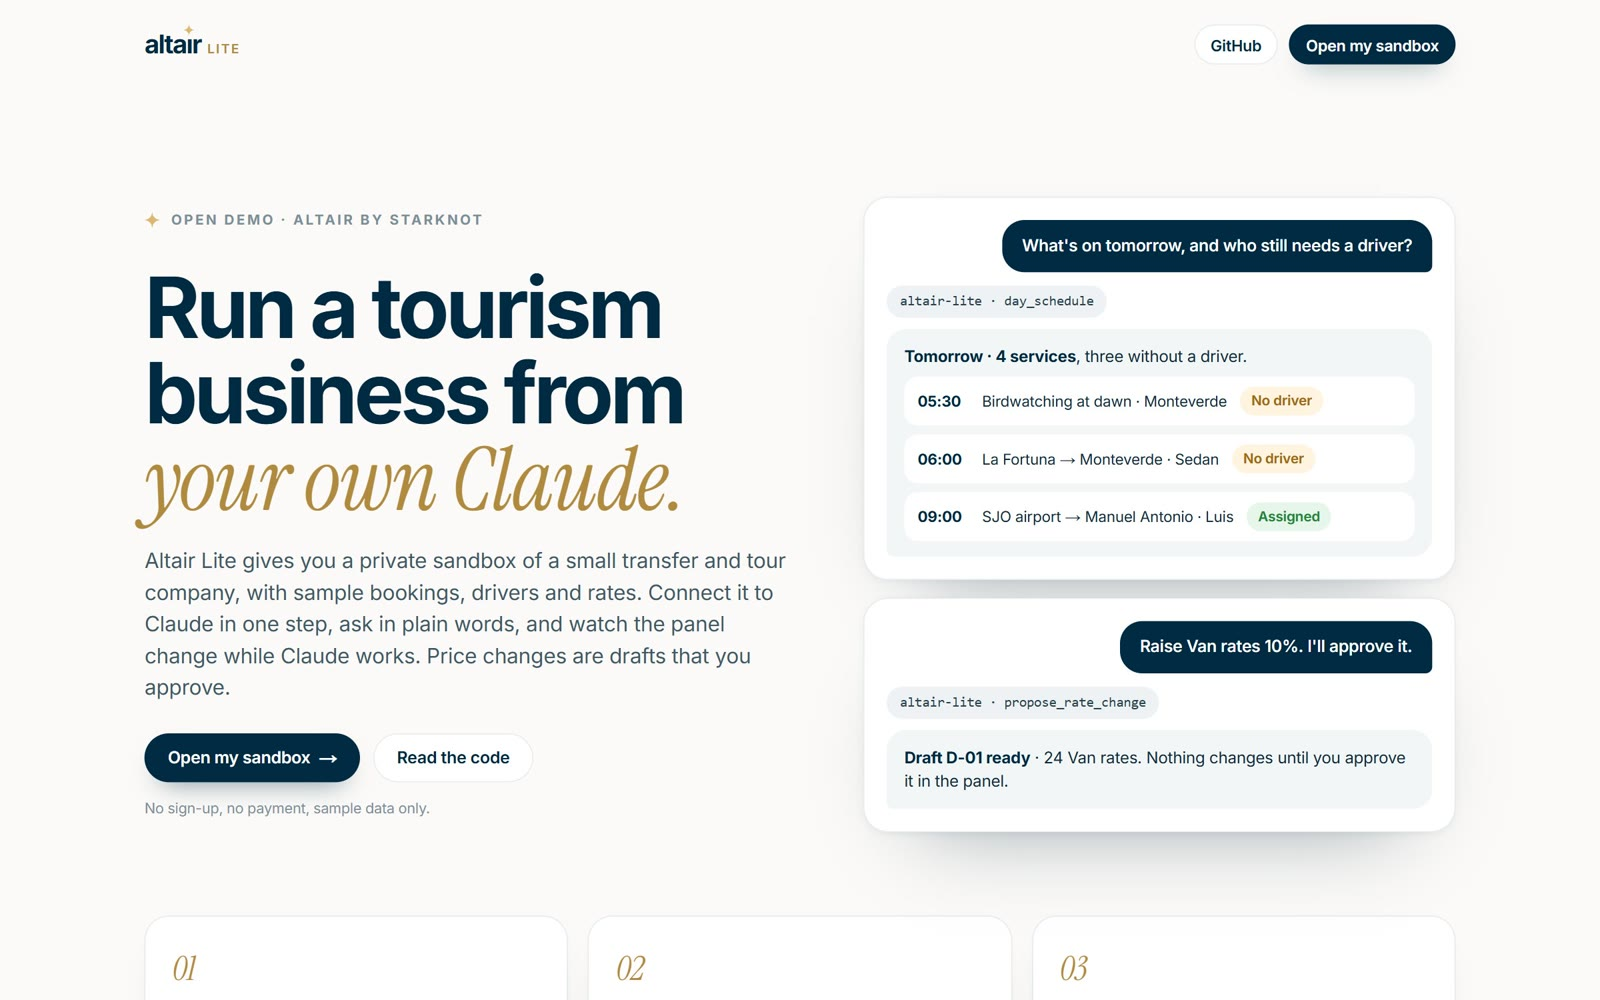
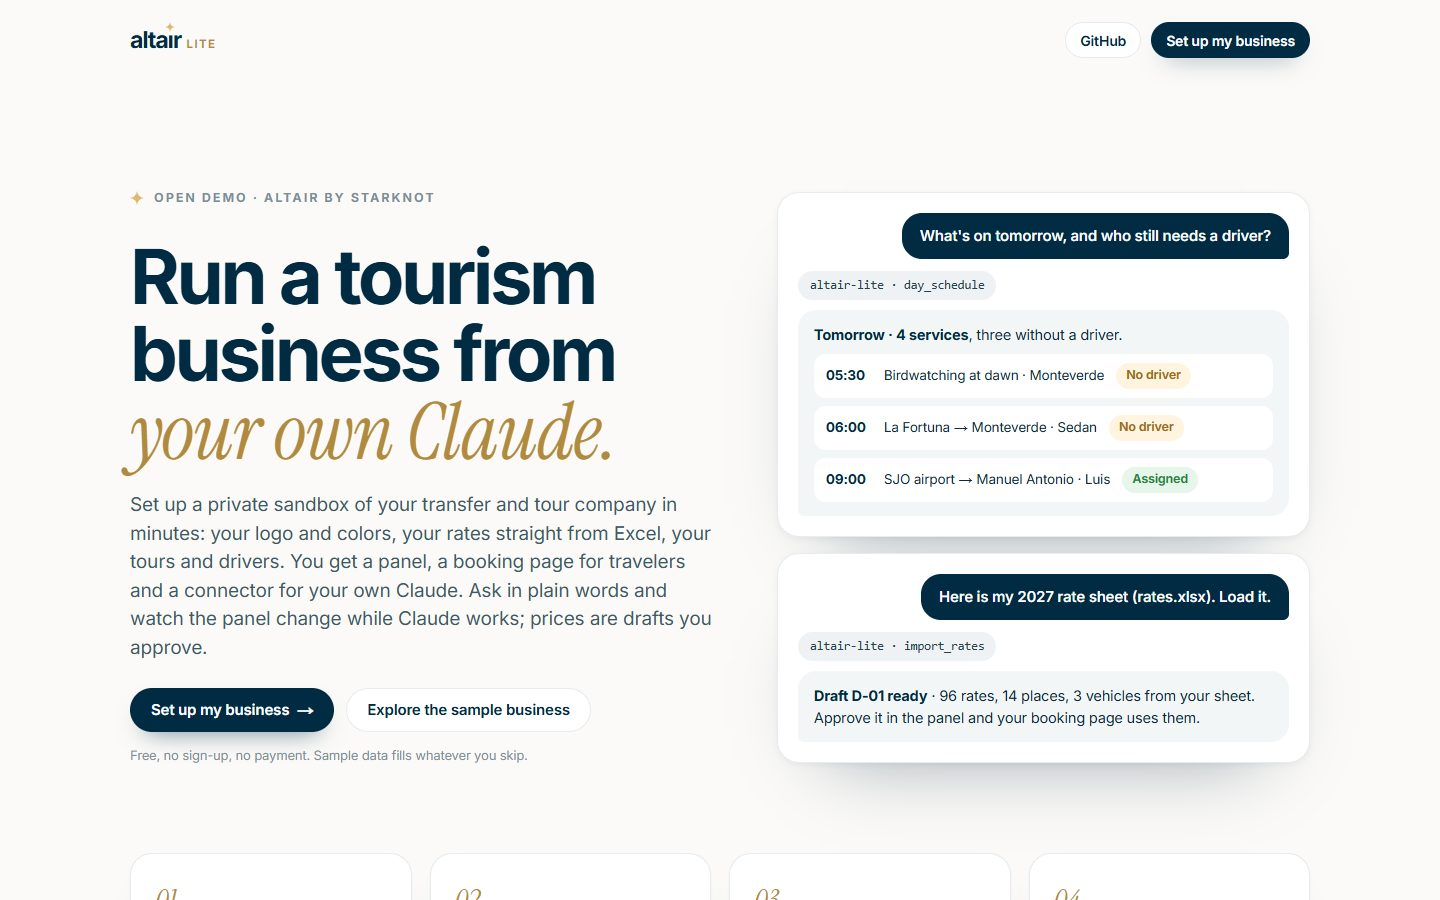
README: new screenshots of the panel, the guided setup and the booking page

diff --git a/README.md b/README.md
@@ -9,7 +9,14 @@ to Claude in one step, ask in plain words, and watch the panel change while Clau
   no sign-up, no keys, sample data only
 </p>
 
-![The Altair Lite panel: services, rates, a rate-change draft prepared by Claude waiting for approval, and the connector URL](docs/panel.jpg)
+![The Altair Lite panel: new requests from the booking page, services with drivers, the Claude connector and a rate-change draft prepared by Claude waiting for approval](docs/panel.jpg)
+
+<table>
+  <tr>
+    <td width="50%"><img src="docs/setup.jpg" alt="Guided setup: a rate sheet in Excel read in the browser, with places, vehicles and prices"><br><sub><b>Guided setup.</b> Your logo, colors and the Excel you already use for your rates.</sub></td>
+    <td width="50%"><img src="docs/booking.jpg" alt="The business's own booking page with its colors, routes and prices per vehicle"><br><sub><b>Your booking page.</b> Travelers request transfers and tours; requests land in the panel live.</sub></td>
+  </tr>
+</table>
 
 ## How it works
 
